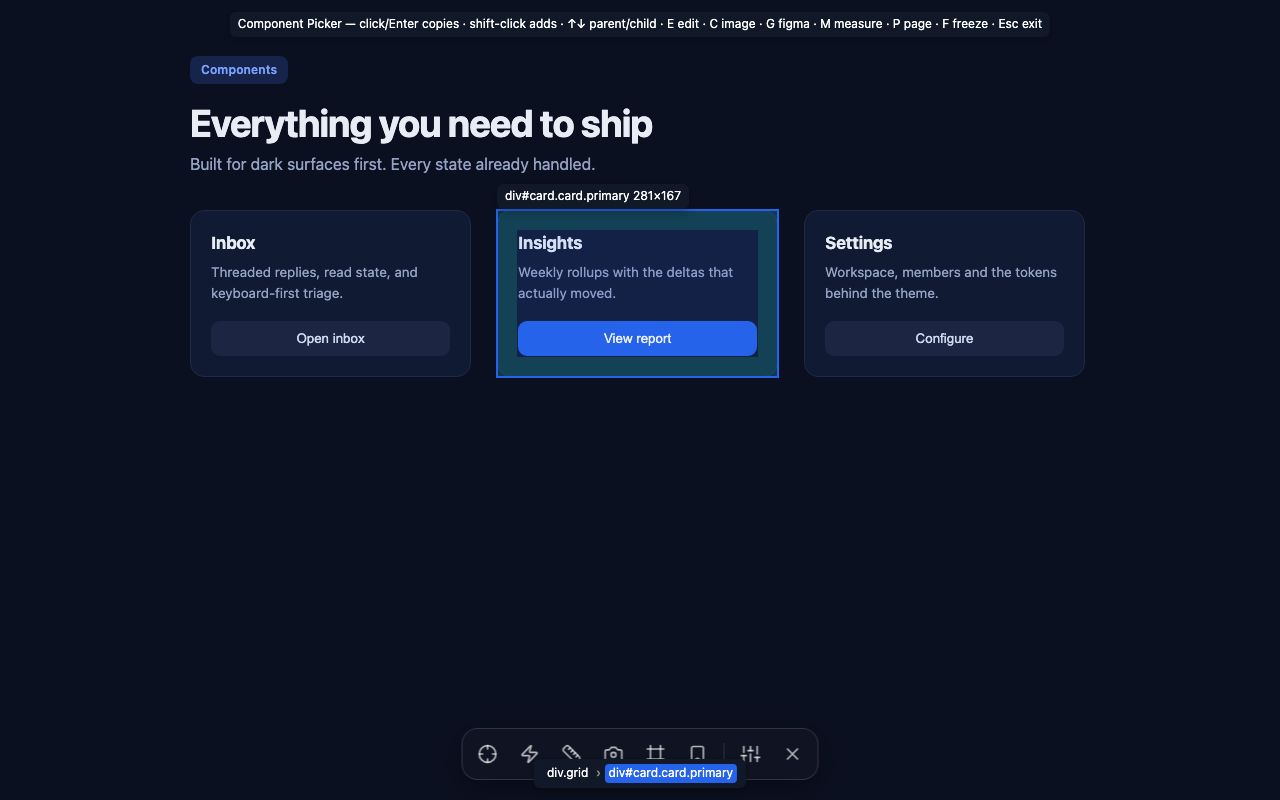
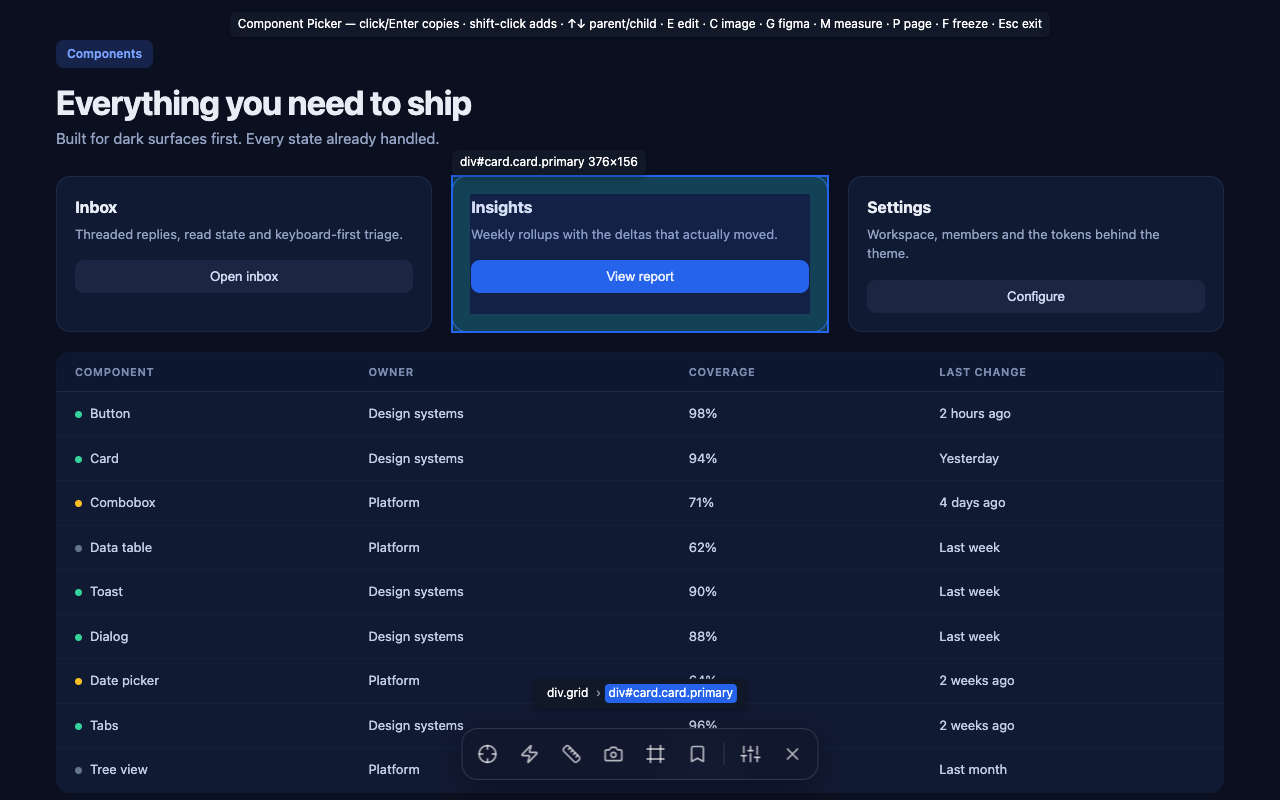
docs: re-shoot every product screenshot against the v1.7 UI
The old shots predate the glass dock and the settings drawer, so none of them
showed the thing the extension now leads with. All three are re-taken from the
running build rather than mocked up.

**How they are made.** The script boots the built `dist/` in Chrome for Testing
with `--load-extension`, arms the picker through the service worker, hovers a
card with real CDP input events, and screenshots. Two things it has to get right,
both of which the earlier attempt got wrong:

- **GPU compositing on.** `--disable-gpu` does not composite `backdrop-filter`,
  so the glass rendered as a flat dark slab — the one detail the dock is for.
- **Content behind the dock.** A blur over an empty background is just a tinted
  rectangle. The demo page now runs a table under the dock so the blur has
  something to blur, and the drawer overlays it on the right.

**What is in them.** `dock.png` — the dock over content, a card outlined with its
box model shaded, the breadcrumb above the dock (which needed the fix in the
previous commit). `drawer.png` — the settings sidebar open, every output toggle
and the compare-reference line. `popup.png` — the toolbar popup at its real
380px width, with the inventory, viewports, MCP bridge and Studio library.

The store listing assets are re-shot from the same run, plus a third for the
drawer. The demo page is a component gallery, not a pricing table, for the
reason given in the previous PR.
[…]

diff --git a/web/src/data/issues.ts b/web/src/data/issues.ts
@@ -1093,13 +1093,14 @@ export const issues: Issue[] = [
     tier: "v1.7",
     priority: "P2",
     areas: ["ui"],
-    why: "The reference you set with `R` was always global — `chrome.storage.local`, shared across every tab and session. You just could not see it, so switching tabs felt like it had been thrown away, and people re-picked the reference they already had.",
-    proof: "The drawer shows `Comparing against <label> · <host>` in every tab, with a clear button.",
+    why: "The reference you set with `R` is shared across every tab, so switching tabs never lost it — you just could not see that, and people re-picked a reference they already had. It is now session-scoped too (`chrome.storage.session`): a reference you set and forget stops silently attaching a Compared section to every later capture once the browser closes.",
+    proof: "The drawer shows `Comparing against <label> · <host>` in every tab, with a clear button, and it is gone after a browser restart.",
     record: [
       "Capture a reference on site A and press **R** while the toast is up.",
       "Switch to a completely different tab and open the drawer — `Comparing against <label> · <host>` is sitting there.",
       "Capture your rebuild in that tab; the `## Compared with reference` section still lands.",
       "Click clear and show the line disappear. Short beat — it is a “nothing was lost” shot.",
+      "If you want the whole story: set a reference, quit Chrome, reopen. The line is gone — it is session-scoped, so a forgotten reference cannot follow you around for weeks.",
     ],
   },
   {

diff --git a/web/src/data/scenes.ts b/web/src/data/scenes.ts
@@ -85,7 +85,7 @@ export const scenes: Scene[] = [
     ],
     onScreen:
       "The dock on a cold page with a tooltip open, then the drawer, then the armed page with banner and breadcrumb.",
-    still: "/shots/dock.png",
+    still: "/shots/drawer.png",
     issues: [69, 72, 73, 16],
   },
   {

diff --git a/README.md b/README.md
@@ -11,10 +11,14 @@ and GSAP timelines · repeated cards collapsed to one + a data table · mapping 
 `<Button>`/`<Card>` · accessibility (roles, contrast, focus order) · element screenshots · and a
 ready-to-paste JSX/Vue/Svelte component. Everything runs locally — no network, no account.
 
-<img src="web/public/shots/dock.png" alt="The glass dock on a component gallery, with a card outlined, its box model shaded and labelled div#card.card.primary 281×167" width="100%">
+<img src="web/public/shots/dock.png" alt="The glass dock on a component gallery, with a card outlined, its box model shaded and labelled div#card.card.primary 376×156" width="100%">
 
-<sup>The dock sits on every page since v1.7. Hover to outline, click to copy the bundle.
+<sup>The glass dock sits on every page since v1.7. Hover to outline, click to copy the bundle.
 MIT-licensed and fully open source — no paid tier.</sup>
+
+<img src="web/public/shots/drawer.png" alt="The settings drawer open on the right, listing every output toggle over a blurred page" width="100%">
+
+<sup>Settings, in the page: the drawer behind the dock's gear.</sup>
 
 Current version: **1.7.0** ([releases](https://github.com/niyamvora/component-picker/releases)) ·
 [the site](web/README.md) covers every capability and every issue behind it.
@@ -169,9 +173,9 @@ cd web && npm install && npm run dev
 Video placeholders fill themselves in: drop `web/public/clips/<id>.mp4` next to a slot and rebuild.
 Until then each slot shows the real screenshot or its shot list.
 
-The popup and its Studio library:
+The toolbar popup — viewports, your component inventory, the MCP bridge, recent picks and the Studio library:
 
-<img src="web/public/shots/popup.png" alt="The Component Picker popup — output toggles, viewports, your components, MCP bridge and the saved library" width="340">
+<img src="web/public/shots/popup.png" alt="The Component Picker popup — output toggles, your components, viewports, MCP bridge, compare reference, recent picks and the library" width="340">
 
 A real capture is committed at [`examples/sample-capture.md`](examples/sample-capture.md) so you can
 see exactly what a bundle looks like without installing anything.

diff --git a/web/README.md b/web/README.md
@@ -38,8 +38,12 @@ public/clips/<scene-id>.mp4    # one per scene on /record (install, arm, hover, 
 public/clips/issue-<n>.mp4     # optional, per issue page
 ```
 
-`/record` lists every filename the site is waiting for, in order. `public/shots/` holds the
-stills — `dock.png` and `popup.png` are the real Web Store screenshots from `store/assets/`.
+`/record` lists every filename the site is waiting for, in order.
+
+`public/shots/` holds the stills. `dock.png`, `drawer.png` and `popup.png` are real captures of the
+running extension, not mockups — the shot script boots the built `dist/` in Chrome for Testing,
+arms the picker over a demo page and screenshots through CDP. They need GPU compositing:
+`--disable-gpu` flattens `backdrop-filter` and the glass renders as a dull slab.
 
 ## Data
 
